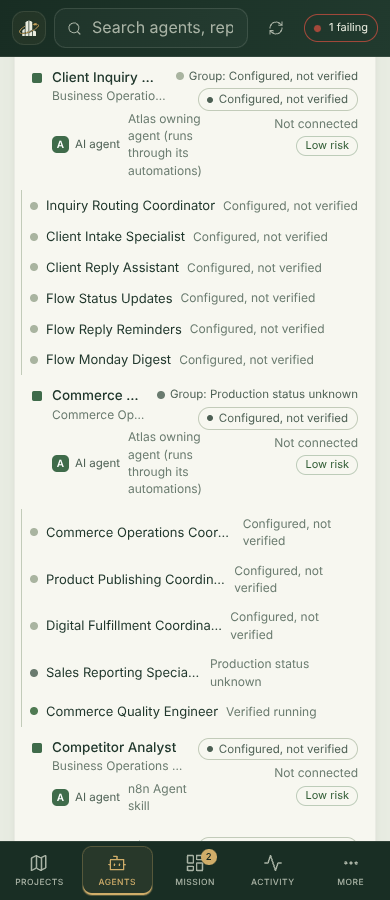
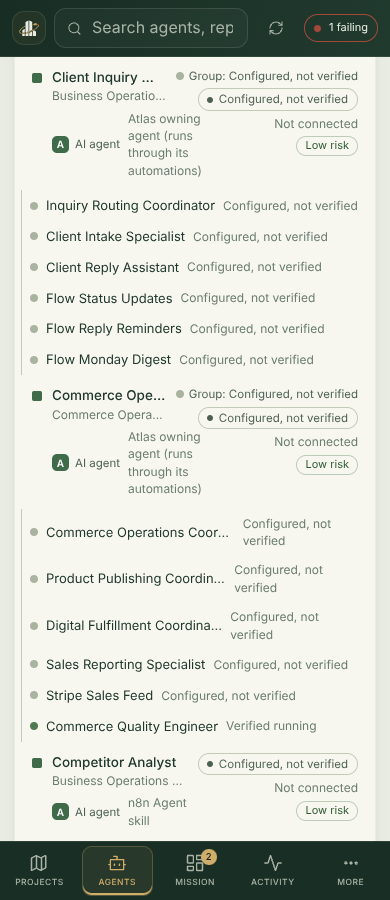
Route customer-facing n8n failures into Atlas (#437)
* Route customer-facing n8n failures into Atlas

Flow Error Alerts now posts a failed report for the failed workflow's
agents, and Flow Missed Run Check posts a daily heartbeat (on time ok,
late failed). Seven Flow, Shop and Commerce agents now watch the feed:
failures alert, and the scheduled ones go silent after 26 hours.

Claude-Session: https://claude.ai/code/session_01FS1cYNrump5HC3PtEUVtQT

* Count the seven newly watched agents in the alerts visual check

Claude-Session: https://claude.ai/code/session_01FS1cYNrump5HC3PtEUVtQT

* Changelog PR number

Claude-Session: https://claude.ai/code/session_01FS1cYNrump5HC3PtEUVtQT

* Count Atlas Sales Feed under Commerce Operations Manager in the owners visual check

The check expected 5 automations; main has 6 since the Atlas Sales Feed
was added, so it fails on main too.

Claude-Session: https://claude.ai/code/session_01FS1cYNrump5HC3PtEUVtQT

* Count Atlas Sales Feed in the Automations visual check

main lists 38 automations since the Atlas Sales Feed was added; the check
still expected 37.

Claude-Session: https://claude.ai/code/session_01FS1cYNrump5HC3PtEUVtQT

---------

diff --git a/src/alerts/alerts.test.ts b/src/alerts/alerts.test.ts
@@ -107,11 +107,14 @@ agents:
     expect(bad.issues.map((i) => i.message)).toEqual([expect.stringContaining("report_within"), expect.stringContaining("alerts.page")]);
   });
 
-  it("watches the customer-facing agents, including n8n order delivery and Stripe publishing", () => {
+  it("watches the customer-facing agents, including the n8n buyer and client emails, Stripe publishing and the weekly sales email", () => {
     const { catalog, issues } = buildCatalog(loadCatalogFiles());
     expect(issues).toEqual([]);
     const watched = catalog.agents.filter((a) => a.alerts);
-    expect(watched.map((a) => a.id).sort()).toEqual(["benjaire-contact-worker", "benjaire-flow-intake", "dataset-census", "marketplace-steward", "order-delivery", "shopify-publisher", "signal-watch"]);
+    expect(watched.map((a) => a.id).sort()).toEqual([
+      "benjaire-contact-worker", "benjaire-flow-digest", "benjaire-flow-intake", "benjaire-flow-missed-runs", "benjaire-flow-reminders", "benjaire-flow-status",
+      "benjaire-shop-delivery", "benjaire-shop-follow-ups", "dataset-census", "marketplace-steward", "order-delivery", "sales-sync", "shopify-publisher", "signal-watch",
+    ]);
     for (const a of watched) {
       expect(a.observe?.agentFeed).toBe(true);
       expect(a.alerts!.notRunning).toBeNull();

diff --git a/visual/alerts.visual.ts b/visual/alerts.visual.ts
@@ -27,8 +27,9 @@ test("a reported failure raises an alert until it is dismissed", async ({ page }
   await expect(card.locator(".watch.not-running")).toHaveCount(0);
   // This browser isn't reading the live feed, so the intake's state is unknown, not healthy, and so is
   // each building agent's (Marketplace Steward, Signal Watch, Dataset Census) and the two n8n commerce
-  // agents' (Order Delivery, Approve and Publish).
-  await expect(card.locator(".watch.no-source")).toHaveCount(6);
+  // agents' (Order Delivery, Approve and Publish), and the seven Flow, Shop and Commerce workflows
+  // that report through Flow Error Alerts and the Missed Run Check.
+  await expect(card.locator(".watch.no-source")).toHaveCount(13);
   await shot(page, "1-mission");
   await card.getByRole("button", { name: "Dismiss", exact: true }).click();
   await expect(pill).toHaveCount(0);

diff --git a/src/registry/registry.test.ts b/src/registry/registry.test.ts
@@ -286,7 +286,7 @@ describe("directory", () => {
     // Every classification is verified and every agent that acts on external systems documents its permissions.
     const reasons = s.needsReview.flatMap((e) => e.review);
     expect(reasons.filter((r) => r.startsWith("Classification is") || r.includes("no permissions"))).toEqual([]);
-    expect(s.observable).toBe(31);
+    expect(s.observable).toBe(38);
   });
 });
 

diff --git a/docs/alerts.md b/docs/alerts.md
@@ -58,6 +58,13 @@ An agent is watched when its manifest has an `alerts` block (see
 | dataset-census | yes | 7 hours (runs every 3 h) | watched |
 | order-delivery | yes | none (runs per order) | watched once n8n reports |
 | shopify-publisher | yes | none (runs per approval) | watched once n8n reports |
+| benjaire-flow-missed-runs | yes | 26 hours (posts a heartbeat daily at 11am ET) | watched |
+| benjaire-shop-follow-ups | yes | 26 hours (heartbeat from the missed run check) | watched |
+| benjaire-flow-reminders | yes | 26 hours (heartbeat; "skipped" at weekends) | watched |
+| benjaire-flow-digest | yes | 26 hours (heartbeat from the missed run check) | watched |
+| sales-sync | yes | 26 hours (heartbeat from the missed run check) | watched |
+| benjaire-shop-delivery | yes | none (runs per order) | watched |
+| benjaire-flow-status | yes | none (runs per status click) | watched |
 
 The last three are the building operators (`ops/building-agents/agents.py`, run by
 `.github/workflows/building-agents.yml`, no model calls). Each operates one landmark through
@@ -72,6 +79,21 @@ approval form). Their n8n workflows post one report per send or publish to `/api
 with the n8n credential "Atlas reports". A report that fails to post never blocks the email or
 the Stripe call. Design Run and the weekly sales email only email Khaneil and keep emailing
 their own failures.
+
+The Benjaire Flow, Shop and Commerce n8n workflows report through two shared workflows, with no
+model calls and no customer data:
+
+- **Flow · 0 Error alerts** is the error workflow for every Flow, Shop and Commerce workflow
+  that faces customers. Besides emailing ops, it posts one `failed` report for the failed
+  workflow's agents (workflow name, failing step and run id; never the error text, which can
+  hold a buyer's address). Its workflow-to-agent map is in its "Build Atlas Report" node; keep
+  it in step with the catalog when a workflow is added.
+- **Flow · 5 Missed run check** runs daily at 11am ET and posts a heartbeat: the schedules that
+  ran on time as `ok`, late ones as `failed`, and Reply reminders as `skipped` at weekends. The
+  check itself is in the `ok` report, so if it stops, its agents go silent after 26 hours.
+
+A failed post never blocks the email. Neither can catch a full n8n outage on its own, but the
+26-hour silence windows do: Atlas shows the agents as Silent when no heartbeat arrives.
 
 The benjaire.com agents only show reports once their Worker and n8n workflow send them to
 `/api/hooks/agents` ([live-updates.md](live-updates.md#pipeline-runs-outside-atlas)). Until

diff --git a/changelog.d/claude-project-thread-6b4ni2.md b/changelog.d/claude-project-thread-6b4ni2.md
@@ -1,0 +1,1 @@
+- 2026-11-16 · Customer-facing n8n workflows now report into Atlas: any failed run turns its agent red, and a daily heartbeat flags buyer emails, reminders, the digest or the weekly sales email that stop running (#437)
